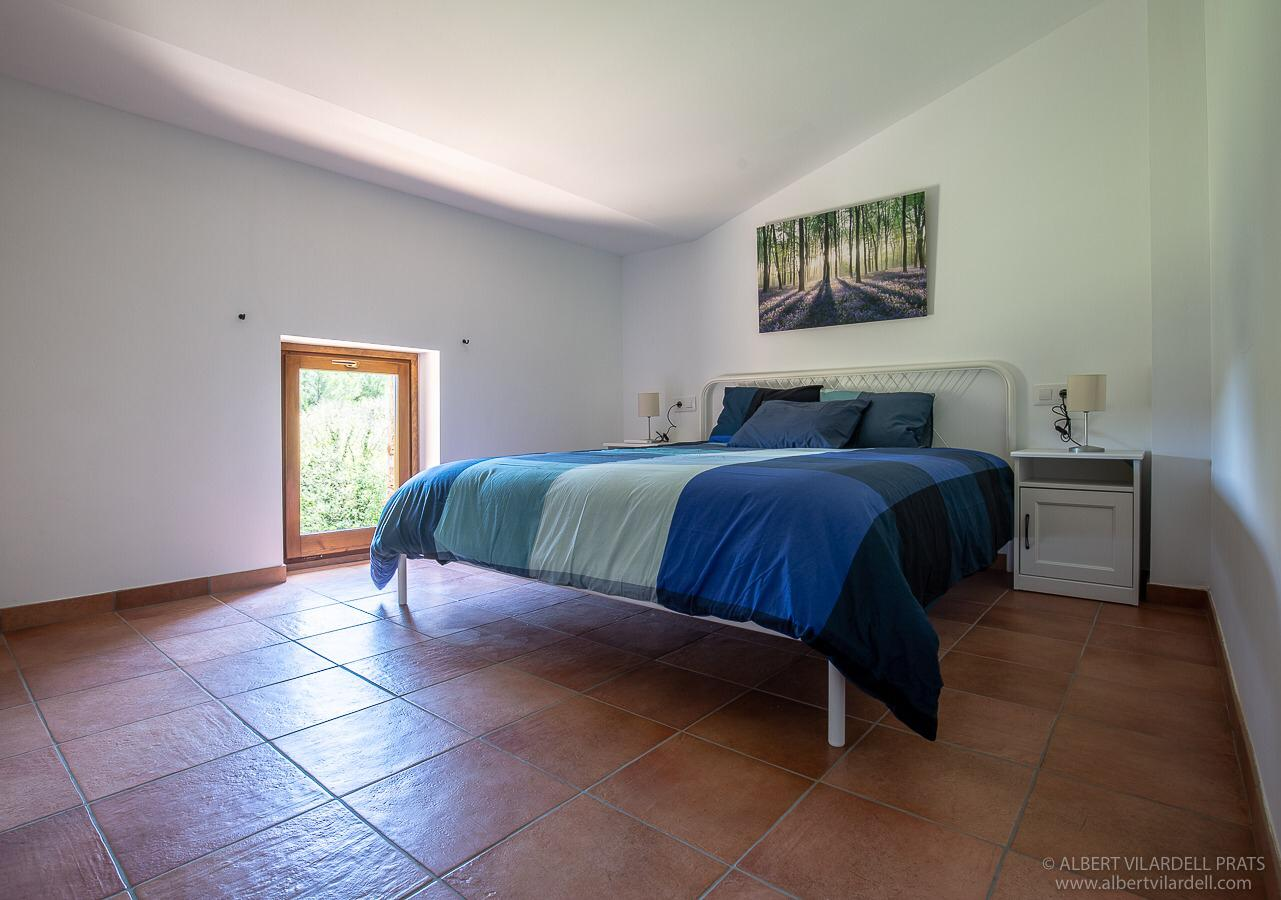
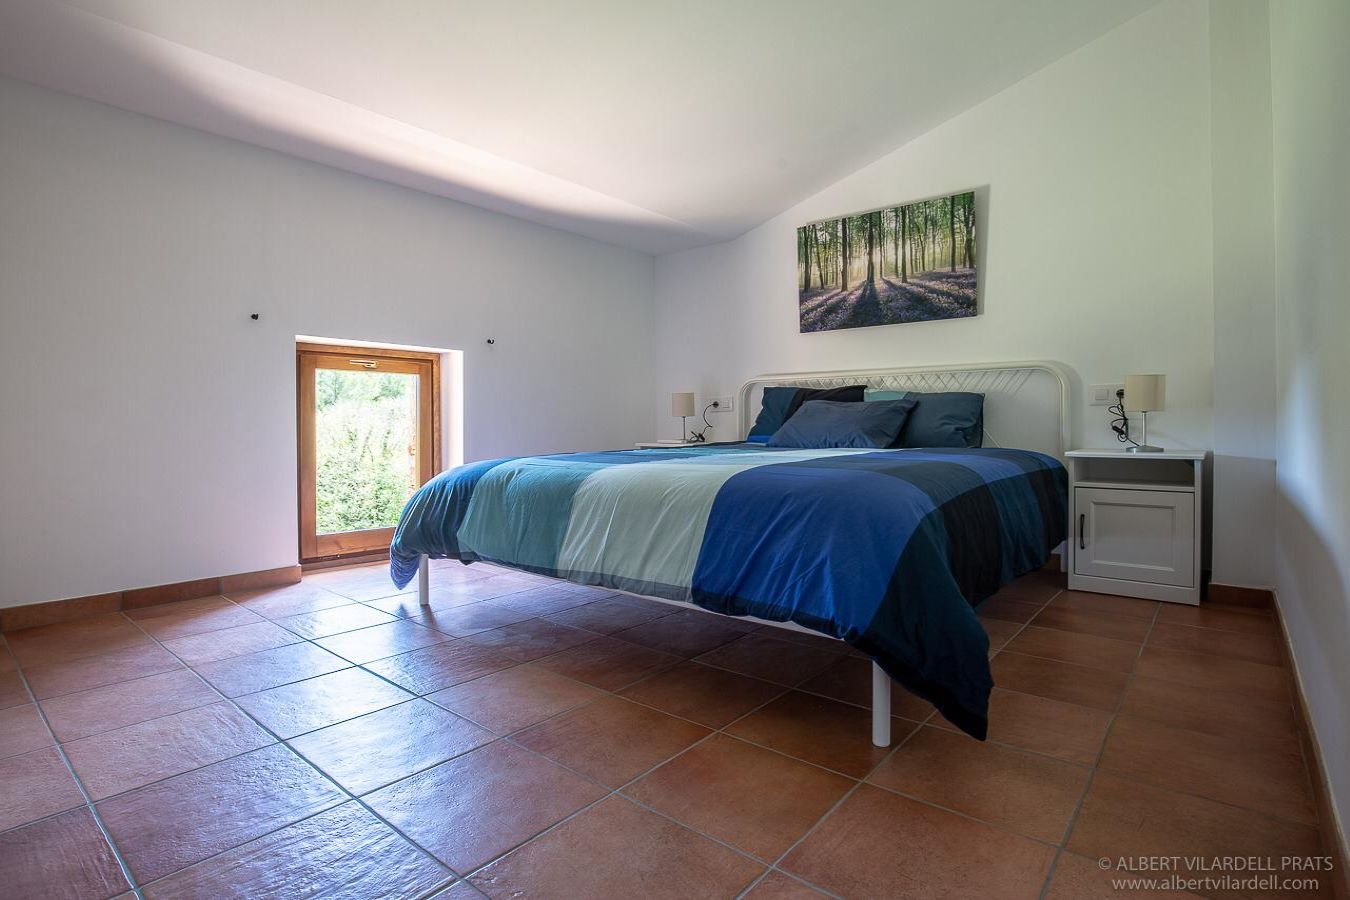
canvis imatges

Changed region(s): [[0.5933, 0.2178, 0.7182, 0.3111], [0.281, 0.5289, 0.3435, 0.5911]]

diff --git a/canpasamane/usuari/templates/casa.html b/canpasamane/usuari/templates/casa.html
@@ -10,11 +10,82 @@
 <h5> Cuina</h5>
 <p>A la Cuina/Rebedor hi teniu a la vostre disposició un forn, encimera, vitro d'inducció, rentaplats, nevera, congelador, campana estractora, microones i una màquina de café (Nespreso). A més de tots els utensilis per cuinar i menjar. També, a la mateixa cuina, hi podem trobar una taula plagable de paret juntament amb dos tamburets per pendre alguna cosa, afegir que la cuina està perfectament il·luminada amb llum natural gràcies a la finestra de sobre la pica i el ventall del lateral de la porta.  </p>
 <h5>Menjador</h5>
-<p>El menjador gaudeix d'una taula extensible que hi caben fins a 12 comensals (persones), amb un armari cantoner original del segle XIX, amb un magnífic rellotge de paret juntament amb una televisió i un climatitzador</p>
+<p>El menjador hi tronem una taula extensible, que hi caben fins a 12 persones, amb un armari cantoner original del segle XIX, amb un magnífic rellotge de paret juntament amb una televisió i un climatitzador</p>
 <h5>Cuarto de bany</h5>
 <p>Un cuarto de bany amb un dutxa de plat, un lavabo i un bater, amb un armari empotrat.</p>
 <h5>Habitació</h5>
-<p>L'habitació del primer pis és una habitació totalment rustica, amb un llit doble, un armari empotrat, dues teuletes de nit amb les seves lampares, un climatitzador i una finestra que don a la part de derrera de la casa on es poden gaudir de les vistes que ens ofereix la natura de l'entorn. </p>
+<p>L'habitació del primer pis és una habitació totalment rustica, amb un llit doble, un armari empotrat, dues tauletes de nit amb les seves lampares, un climatitzador i una finestra que don a la part de derrera de la casa on es poden gaudir de les vistes que ens ofereix la natura de l'entorn. </p>
+<!--Carousel Wrapper-->
+<div id="multi-item-example" class="carousel slide carousel-multi-item carousel-multi-item-2" data-ride="carousel">
+
+  <!--Controls-->
+  <div class="controls-top" style="margin-left: 44%">
+    <a class="black-text" href="#multi-item-example" data-slide="prev"><----<i class="fas fa-angle-left fa-3x pr-3">  </i></a>
+    <a class="black-text" href="#multi-item-example" data-slide="next">----><i class="fas fa-angle-right fa-3x pl-3"></i></a>
+  </div>
+  <!--/.Controls-->
+
+  <!--Slides-->
+  <div class="carousel-inner" role="listbox">
+
+    <!--First slide-->
+    <div class="carousel-item active">
+
+      <div class="col-md-3 mb-3">
+        <div class="card">
+          <img class="img-fluid" src="{% static 'canpasamane/images/cuina.jpeg' %}"
+            alt="Card image cap">
+        </div>
+      </div>
+
+      <div class="col-md-3 mb-3">
+        <div class="card">
+          <img class="img-fluid" src="{% static 'canpasamane/images/menjador2.jpeg' %}"
+            alt="Card image cap">
+        </div>
+      </div>
+
+      <div class="col-md-3 mb-3">
+        <div class="card">
+          <img class="img-fluid" src="{% static 'canpasamane/images/menjadorTot.jpeg' %}"
+            alt="Card image cap">
+        </div>
+      </div>
+
+      <div class="col-md-3 mb-3">
+        <div class="card">
+          <img class="img-fluid" src="{% static 'canpasamane/images/escaladins.jpeg' %}"
+            alt="Card image cap">
+        </div>
+      </div>
+
+    </div>
+    <!--/.First slide-->
+
+    <!--Second slide-->
+    <div class="carousel-item">
+
+      <div class="col-md-3 mb-3">
+        <div class="card">
+           <img class="img-fluid" src="{% static 'canpasamane/images/lab2.jpeg' %}" 
+            alt="Card image cap">
+        </div>
+      </div>
+
+      <div class="col-md-3 mb-3">
+        <div class="card">
+          <img class="img-fluid" src="{% static 'canpasamane/images/hab1.jpeg' %}"
+            alt="Card image cap">
+        </div>
+      </div>
+
+    </div>
+    <!--/.Second slide-->
+  </div>
+  <!--/.Slides-->
+
+</div>
+<!--/.Carousel Wrapper-->
 <h3>Pis Superior</h3>
 <h5>Habitació doble</h5>
 <p>Aquesta habitació destaca per ser una de les més grans de la casa i per tenir una finestra arran de terra, juntament amb un llit de matrimoni, dues tauletes i armaris.</p>
@@ -32,4 +103,14 @@
 <p>Un petit pati exterior que disposa d'una pica original del segle XIX formada amb pedra calcaria de "la Caula" i una magnífica barbacoa per fer tota mena de tiberis.</p>
 </div>
 </div>
+<style>
+@media (min-width: 768px) {
+.carousel-multi-item-2 .col-md-3 {
+float: left;
+width: 25%;
+max-width: 100%; } }
+
+.carousel-multi-item-2 .card img {
+border-radius: 2px; }
+</style>
 {% endblock %}

diff --git a/canpasamane/usuari/templates/bienvenida.html b/canpasamane/usuari/templates/bienvenida.html
@@ -140,6 +140,9 @@
           <div class="carousel-item">
             <img style="margin: 0 auto;width: 60%" src="{% static 'canpasamane/images/sota2.jpeg' %}" class="d-block w-10" alt="Can Pasamane Les Escaules">
           </div>
+          <div class="carousel-item">
+            <img style="margin: 0 auto;width: 60%;" src="{% static 'canpasamane/images/lab1-p.jpeg' %}" class="d-block w-10" alt="Can Pasamane Les Escaules">
+          </div>
         </div>
         <a class="carousel-control-prev" href="#carouselExampleFade3" role="button" data-slide="prev">
           <span class="carousel-control-prev-icon" aria-hidden="true"></span>
@@ -163,7 +166,7 @@
               <div class="col-lg-4 mb-5 mb-lg-0" style="color: white; margin-bottom: 40px">
                 <h4 class="text-uppercase mb-4">Ubicació</h4>
                 <p class="lead mb-0">Les Escaules
-                  <p class="lead mb-0">Carrer de Figueres, 23,CP. 17723
+                  <p class="lead mb-0">Carrer de Figueres, 25,CP. 17723
                     <a href="https://www.google.com/maps/place/Carrer+de+Figueres,+25,+17723,+Girona/@42.317121,2.8833728,122m/data=!3m2!1e3!4b1!4m13!1m7!3m6!1s0x12ba90e1b1a71837:0x2c4e908b1821b5f5!2s17723+Les+Escaules,+Girona!3b1!8m2!3d42.3203518!4d2.8821457!3m4!1s0x12ba911d95541e41:0x7526d12744205201!8m2!3d42.31712!4d2.88392">Localització</a>.</p> 
               </div>
 
